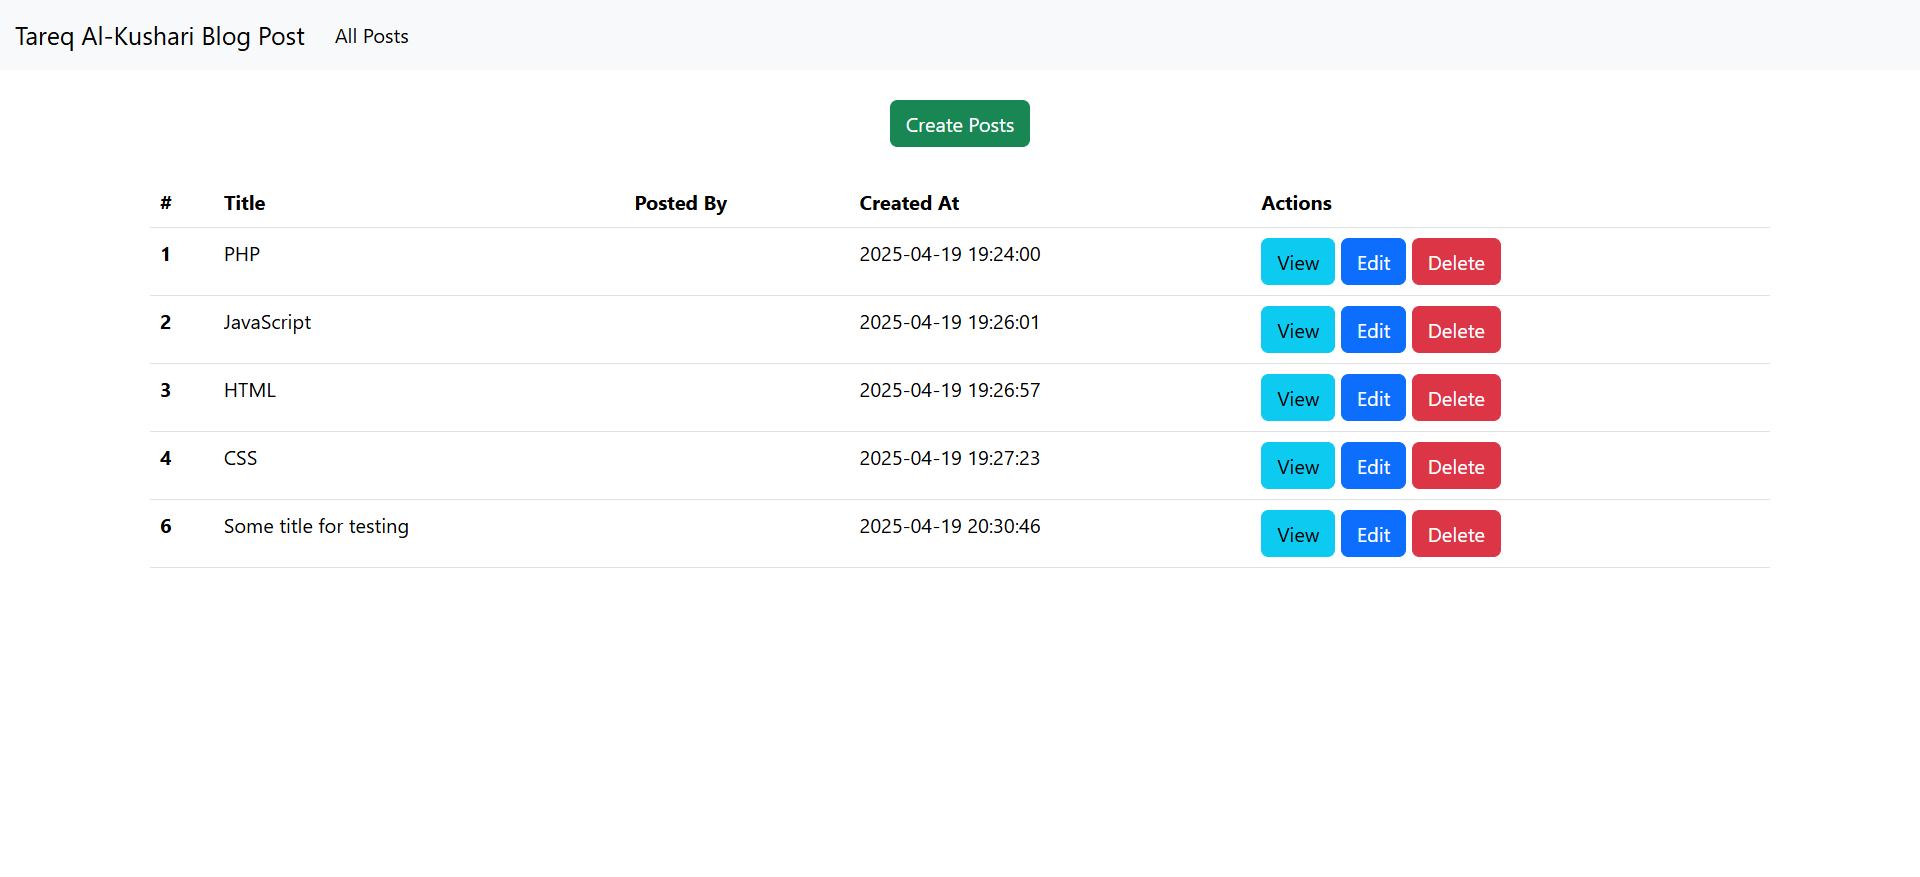
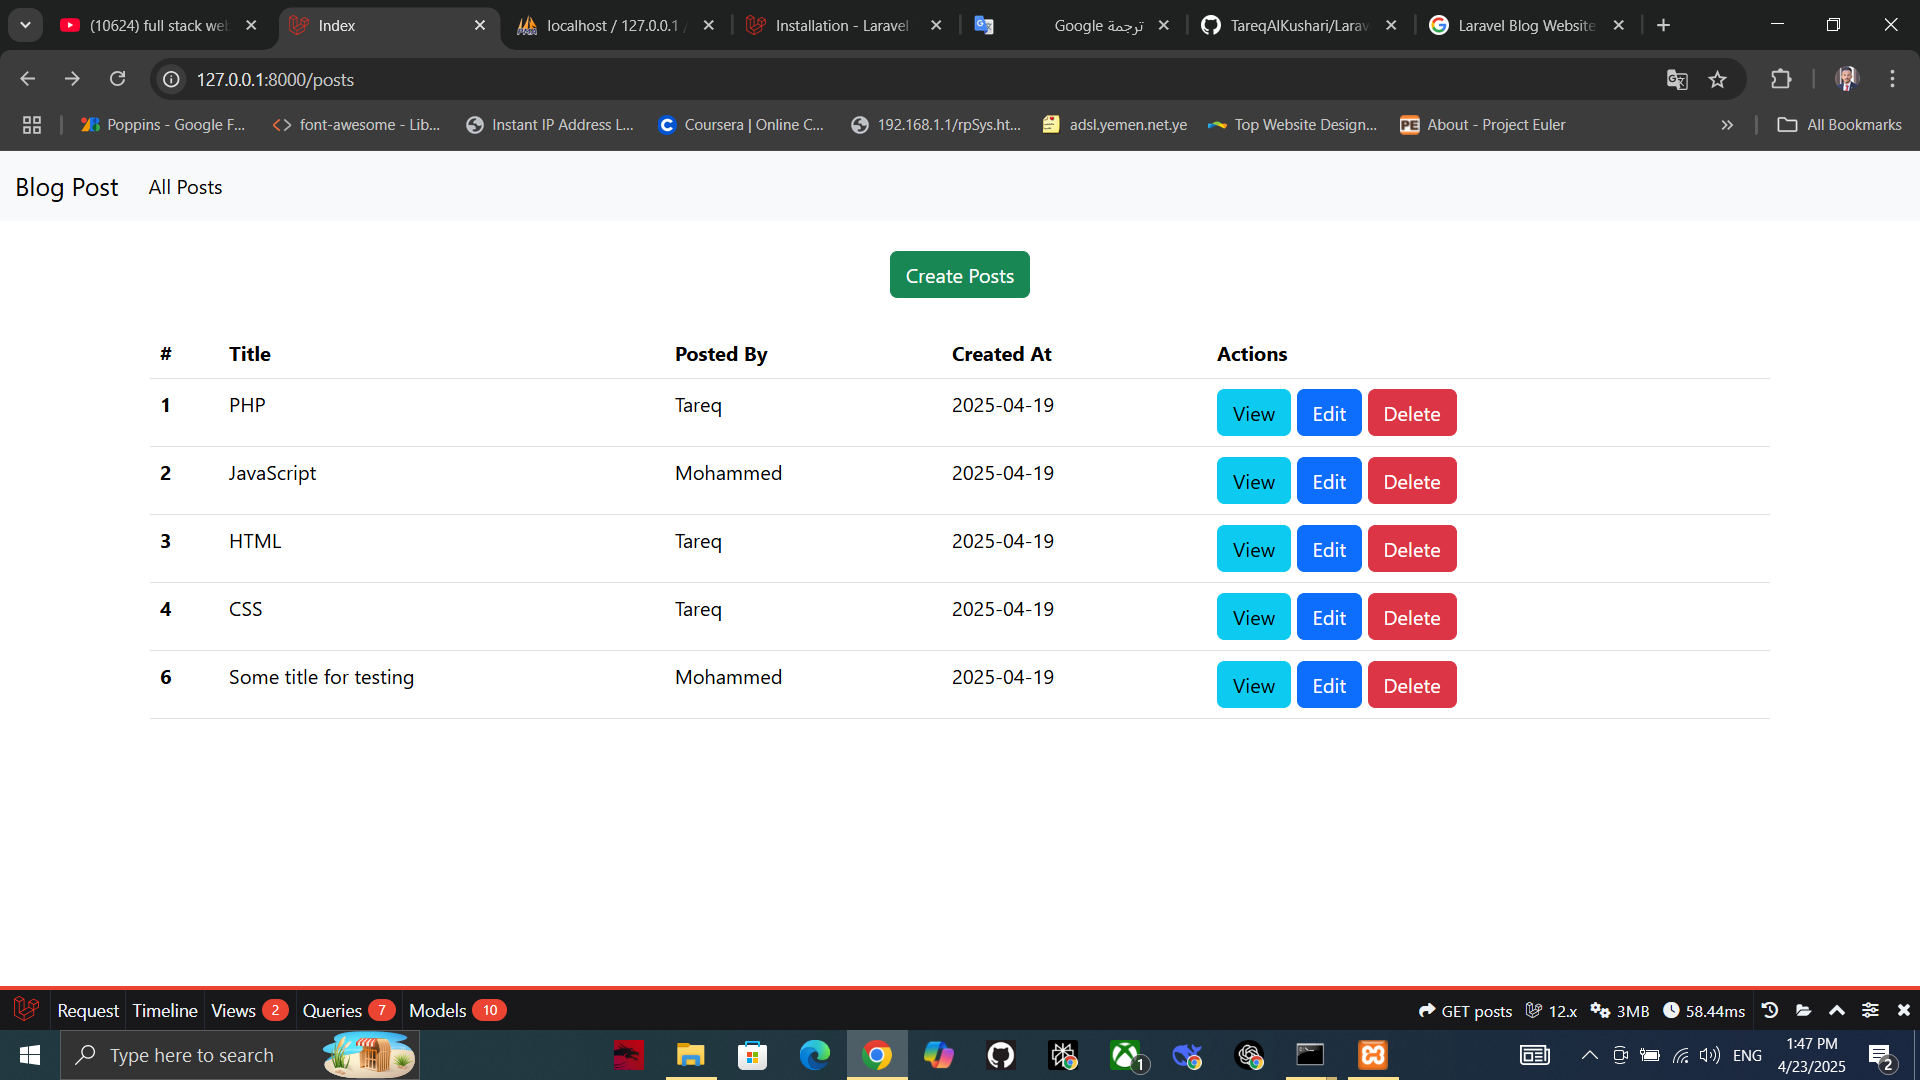
Createed The Project

diff --git a/app/Http/Controllers/PostController.php b/app/Http/Controllers/PostController.php
@@ -50,11 +50,18 @@ class PostController extends Controller // StudlyCase
 
     public function store() // camelCase
     {
+        // Code to validate the data
+        request()->validate([
+            'title'=> ['required', 'min:3'],
+            'description'=> ['required', 'min:5'],
+            'post_creator'=> ['required','exists:users,id'],
+        ]);
+        
         //$request = request();
         //dd($request->title, $request->all());
 
         // 1- Get the user data
-        $data = request()->all();
+        // $data = request()->all();
 
         $title = request()->title;
         $description = request()->description;
@@ -88,6 +95,13 @@ class PostController extends Controller // StudlyCase
 
     public function update($postId) // camelCase
     {
+        // Code to validate the data
+        request()->validate([
+            'title'=> ['required', 'min:3'],
+            'description'=> ['required', 'min:5'],
+            'post_creator'=> ['required','exists:users,id'],
+        ]);
+        
         // 1- Get the user data
         $title = request()->title;
         $description = request()->description;

diff --git a/resources/views/posts/create.blade.php b/resources/views/posts/create.blade.php
@@ -6,15 +6,31 @@ Create
 
 @section('content')
 
+<!-- /resources/views/post/create.blade.php -->
+
+<h1>Create Post</h1>
+
+@if ($errors->any())
+    <div class="alert alert-danger">
+        <ul>
+            @foreach ($errors->all() as $error)
+                <li>{{ $error }}</li>
+            @endforeach
+        </ul>
+    </div>
+@endif
+
+<!-- Create Post Form -->
+
 <form method="POST" action="{{ route('posts.store') }}">
     @csrf
     <div class="mb-3">
       <label class="form-label">Title</label>
-      <input name="title" type="text" class="form-control">
+      <input name="title" type="text" class="form-control" value="{{ old('title') }}">
     </div>
     <div class="mb-3">
       <label class="form-label">Description</label>
-      <textarea name="description" class="form-control" rows="3"></textarea>
+      <textarea name="description" class="form-control" rows="3">{{ old('description') }}</textarea>
     </div>
     <div class="mb-3">
       <label class="form-label">Post Creator</label>

diff --git a/resources/views/posts/edit.blade.php b/resources/views/posts/edit.blade.php
@@ -6,6 +6,22 @@ Edit
 
 @section('content')
 
+<!-- /resources/views/post/Edit.blade.php -->
+
+<h1>Edit Post</h1>
+
+@if ($errors->any())
+    <div class="alert alert-danger">
+        <ul>
+            @foreach ($errors->all() as $error)
+                <li>{{ $error }}</li>
+            @endforeach
+        </ul>
+    </div>
+@endif
+
+<!-- Edit Post Form -->
+
 <form method="POST" action="{{ route('posts.update', $post->id) }}">
     @csrf
     @method('PUT')
@@ -21,7 +37,8 @@ Edit
       <label class="form-label">Post Creator</label>
       <select name="post_creator" class="form-control">
         @foreach ($users as $user)
-          <option value="{{$user->id}}">{{$user->name}}</option>
+          {{-- <option @if ($user->id == $post->user_id) selected @endif value="{{$user->id}}">{{$user->name}}</option> --}}
+          <option @selected($user->id == $post->user_id) value="{{$user->id}}">{{$user->name}}</option>
         @endforeach
       </select>
     </div>

diff --git a/resources/views/posts/show.blade.php b/resources/views/posts/show.blade.php
@@ -16,12 +16,12 @@ Show
         </div>
         <div class="card mt-4">
             <div class="card-header">
-              Featured
+              Post Creator Info
             </div>
             <div class="card-body">
-              <h5 class="card-title">Special title treatment</h5>
-              <p class="card-text">With supporting text below as a natural lead-in to additional content.</p>
-              <p class="card-text">With supporting text below as a natural lead-in to additional content.</p>
+              <h5 class="card-title">Name: {{$post->user ? $post->user->name : 'not found'}}</h5>
+              <p class="card-text">Email: {{$post->user ? $post->user->email : 'not found'}}</p>
+              <p class="card-text">Created At: {{$post->user ? $post->user->created_at : 'not found'}}</p>
             </div>
         </div>
 @endsection

diff --git a/resources/views/posts/index.blade.php b/resources/views/posts/index.blade.php
@@ -26,8 +26,9 @@ Index
               <tr>
                 <th scope="row">{{$post->id}}</th>
                 <td>{{$post->title}}</td>
-                <td>{{$post->posted_by}}</td>
-                <td>{{$post->created_at}}</td>
+                <td>{{$post->user ? $post->user->name : 'not found'}}</td>
+                {{-- @dd($post->created_at->addDays(10)->format('Y-m-d')) --}}
+                <td>{{$post->created_at->format('Y-m-d')}}</td>
                 <td>
                   <a href="{{ route('posts.show', $post->id) }}" class="btn btn-info">View</a>
                   <a href="{{ route('posts.edit', $post->id) }}" class="btn btn-primary">Edit</a>

diff --git a/resources/views/layouts/app.blade.php b/resources/views/layouts/app.blade.php
@@ -9,7 +9,7 @@
 <body>
     <nav class="navbar navbar-expand-lg bg-body-tertiary">
         <div class="container-fluid">
-            <a class="navbar-brand" href="#">Tareq Al-Kushari Blog Post</a>
+            <a class="navbar-brand" href="#">Blog Post</a>
             <button class="navbar-toggler" type="button" data-bs-toggle="collapse" data-bs-target="#navbarSupportedContent" aria-controls="navbarSupportedContent" aria-expanded="false" aria-label="Toggle navigation">
             <span class="navbar-toggler-icon"></span>
             </button>

diff --git a/app/Models/Post.php b/app/Models/Post.php
@@ -13,5 +13,10 @@ class Post extends Model
         "description",
         "user_id",
     ];
+
+    public function user()
+    {
+        return $this->belongsTo(User::class);
+    }
     
 }

diff --git a/README.md b/README.md
@@ -1,6 +1,66 @@
-# Blog Website
-Blog Website Using PHP, Laravel MVC, and MySQL
+<p align="center"><a href="https://laravel.com" target="_blank"><img src="https://raw.githubusercontent.com/laravel/art/master/logo-lockup/5%20SVG/2%20CMYK/1%20Full%20Color/laravel-logolockup-cmyk-red.svg" width="400" alt="Laravel Logo"></a></p>
 
-![](/public/images/Screenshot1.png)
-![](/public/images/Screenshot2.png)
-![](/public/images/Screenshot3.png)
+<p align="center">
+<a href="https://github.com/laravel/framework/actions"><img src="https://github.com/laravel/framework/workflows/tests/badge.svg" alt="Build Status"></a>
+<a href="https://packagist.org/packages/laravel/framework"><img src="https://img.shields.io/packagist/dt/laravel/framework" alt="Total Downloads"></a>
+<a href="https://packagist.org/packages/laravel/framework"><img src="https://img.shields.io/packagist/v/laravel/framework" alt="Latest Stable Version"></a>
+<a href="https://packagist.org/packages/laravel/framework"><img src="https://img.shields.io/packagist/l/laravel/framework" alt="License"></a>
+</p>
+
+## About Laravel
+
+Laravel is a web application framework with expressive, elegant syntax. We believe development must be an enjoyable and creative experience to be truly fulfilling. Laravel takes the pain out of development by easing common tasks used in many web projects, such as:
+
+- [Simple, fast routing engine](https://laravel.com/docs/routing).
+- [Powerful dependency injection container](https://laravel.com/docs/container).
+- Multiple back-ends for [session](https://laravel.com/docs/session) and [cache](https://laravel.com/docs/cache) storage.
+- Expressive, intuitive [database ORM](https://laravel.com/docs/eloquent).
+- Database agnostic [schema migrations](https://laravel.com/docs/migrations).
+- [Robust background job processing](https://laravel.com/docs/queues).
+- [Real-time event broadcasting](https://laravel.com/docs/broadcasting).
+
+Laravel is accessible, powerful, and provides tools required for large, robust applications.
+
+## Learning Laravel
+
+Laravel has the most extensive and thorough [documentation](https://laravel.com/docs) and video tutorial library of all modern web application frameworks, making it a breeze to get started with the framework.
+
+You may also try the [Laravel Bootcamp](https://bootcamp.laravel.com), where you will be guided through building a modern Laravel application from scratch.
+
+If you don't feel like reading, [Laracasts](https://laracasts.com) can help. Laracasts contains thousands of video tutorials on a range of topics including Laravel, modern PHP, unit testing, and JavaScript. Boost your skills by digging into our comprehensive video library.
+
+## Laravel Sponsors
+
+We would like to extend our thanks to the following sponsors for funding Laravel development. If you are interested in becoming a sponsor, please visit the [Laravel Partners program](https://partners.laravel.com).
+
+### Premium Partners
+
+- **[Vehikl](https://vehikl.com/)**
+- **[Tighten Co.](https://tighten.co)**
+- **[WebReinvent](https://webreinvent.com/)**
+- **[Kirschbaum Development Group](https://kirschbaumdevelopment.com)**
+- **[64 Robots](https://64robots.com)**
+- **[Curotec](https://www.curotec.com/services/technologies/laravel/)**
+- **[Cyber-Duck](https://cyber-duck.co.uk)**
+- **[DevSquad](https://devsquad.com/hire-laravel-developers)**
+- **[Jump24](https://jump24.co.uk)**
+- **[Redberry](https://redberry.international/laravel/)**
+- **[Active Logic](https://activelogic.com)**
+- **[byte5](https://byte5.de)**
+- **[OP.GG](https://op.gg)**
+
+## Contributing
+
+Thank you for considering contributing to the Laravel framework! The contribution guide can be found in the [Laravel documentation](https://laravel.com/docs/contributions).
+
+## Code of Conduct
+
+In order to ensure that the Laravel community is welcoming to all, please review and abide by the [Code of Conduct](https://laravel.com/docs/contributions#code-of-conduct).
+
+## Security Vulnerabilities
+
+If you discover a security vulnerability within Laravel, please send an e-mail to Taylor Otwell via [taylor@laravel.com](mailto:taylor@laravel.com). All security vulnerabilities will be promptly addressed.
+
+## License
+
+The Laravel framework is open-sourced software licensed under the [MIT license](https://opensource.org/licenses/MIT).
